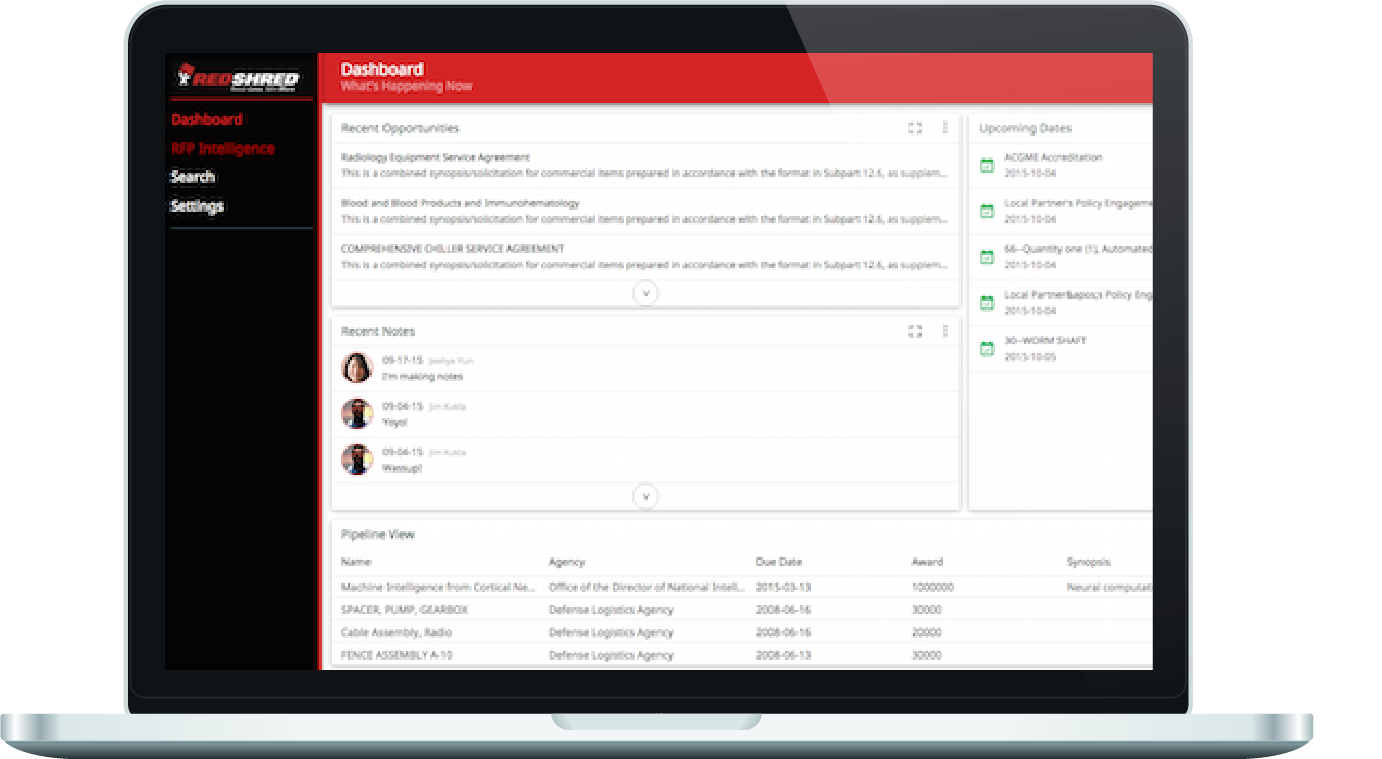
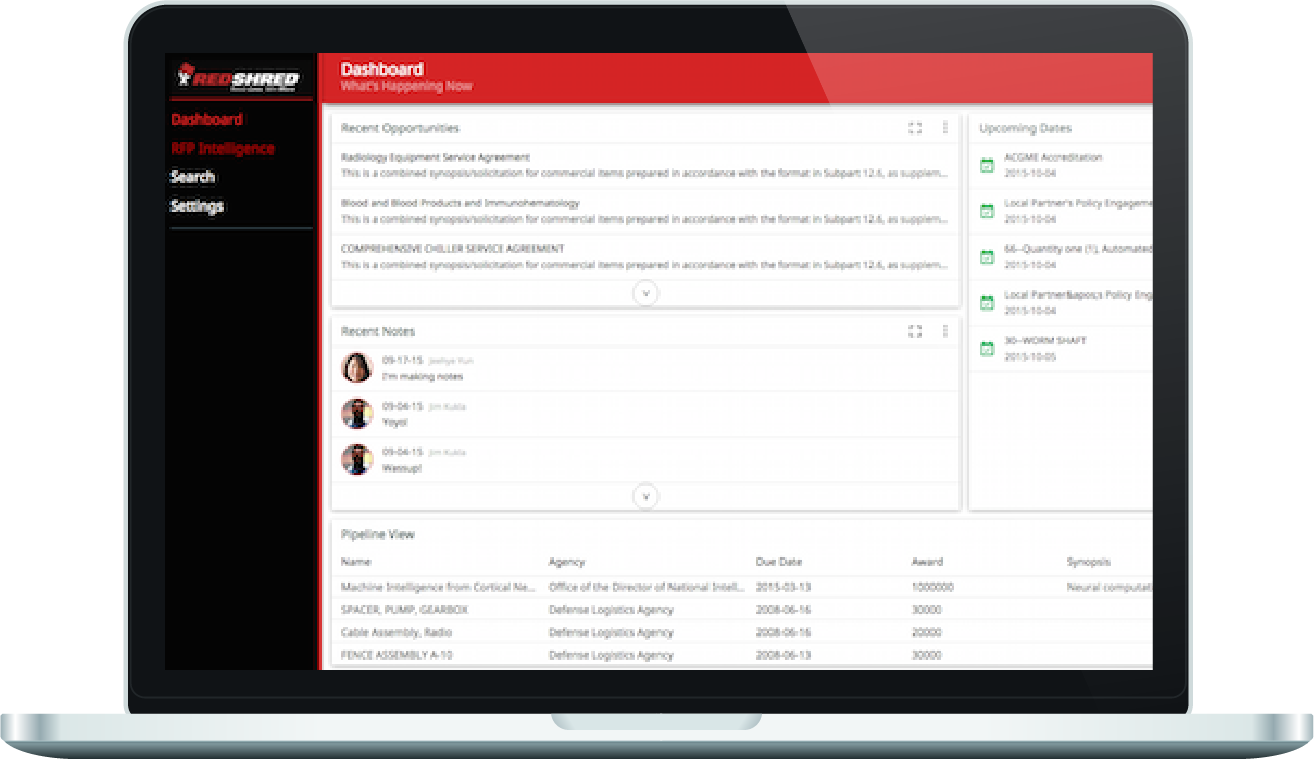
created web development page, added an image size class for figures, trimmed one of the redshred screenshots

diff --git a/software-development/web-applications.html b/software-development/web-applications.html
@@ -1,0 +1,114 @@
+---
+title: Custom Web Application Development
+description: We design and build responsive web applications with great user experiences, elegant infrastructure, and scalable codebases.
+breadcrumb: Web Applications
+---
+<main class="main main-home" role="main">
+  <section class="section hero hero__main">
+    <div class="container">
+      <div class="hero__left">
+        <div class="hero__left-text">
+          <div class="head-text">
+            <h1>Web Application Development</h1>
+          </div>
+        </div>
+        <div class="hero__left-desc">
+          <h2>We’ve been building responsive web applications since 2005; we develop back ends in Ruby on Rails and Elixir/Phoenix, and build front ends with the Javascript framework React. All of our apps are designed with great usability, reliable infrastructure, and scalable codebases.</h2>
+        </div>
+      </div>
+      <div class="hero__right">
+      </div>
+    </div>
+  </section>
+<div class="content-page-wrapper">
+  <section class="section content-block">
+    <div class="container">
+      <p>As a custom web and mobile development shop, we have over a decade and a half’s worth of experience building responsive web applications. A responsive web app is designed to scale and respond sensibly to a variety of screen sizes, and performs equally well in web browsers and on phones and tablets.</p>
+      <p>SmartLogic’s specialty is applications that manage business logic; we’ve provided custom web app development services to a wide range of clients over the years, from funded startups to Fortune 100 corporations, in Baltimore and beyond. Many of our clients have continued to work with us for a number of years, citing our excellent project management, communication, and high quality code.
+      </p>
+
+      <p>Here are a few examples of software application development projects we’ve built for clients.</p>
+    </div>
+  </section>
+
+  <section class="section content-block">
+    <div class="container">
+
+      <!-- folio -->
+
+      <h2>Web Based Application for Internal Professional Development</h2>
+
+      <p>SmartLogic first started working with <a href="case-studies/foliocollaborative">FolioCollaborative</a> in 2011, building out the first production version of their application in three months. Launched in 2011 with a user base of three schools, today Folio is in use across the world at 165 schools.
+      Folio is a professional growth platform used by teachers and staff in schools, with features that include goal setting, goal tracking, feedback and classroom observation, and collaboration within both top-down and peer-scoped groups.</p>
+      <figure>
+        <img class="medium" src="{{ site.baseurl }}/images/case-studies/foliocollaborative/workspaces/folio-workspaces-members.png" alt="FolioCollaborative Members View">
+        <img class="medium" src="{{ site.baseurl }}/images/case-studies/foliocollaborative/workspaces/folio-workspaces-new.png" alt="FolioCollaborative New Workspace View">
+        <img class="medium" src="{{ site.baseurl }}/images/case-studies/foliocollaborative/workspaces/folio-workspaces-timeline.png" alt="FolioCollaborative Timeline View">
+        <figcaption>New views created in the <a href="/case-studies/folio-workspaces">2019 Folio Workspaces</a> update.</figcaption>
+      </figure>
+      <p>Built from scratch in Ruby on Rails, the responsive web application has grown over the years, with annual efforts to improve the application alongside ongoing support and maintenance efforts.</p>
+      <blockquote>Developers can build whatever you ask them to build, within reason — they’re capable of building anything. The team at SmartLogic is willing to build what we need but is also just as committed as we are to the mission and vision of the organization. Dan will raise important questions and help us focus on what features contribute to the mission and how to best use our resources.</blockquote>
+      <cite>— Meredith Ford, Executive Director, FolioCollaborative</cite>
+    </div>
+  </section>
+
+  <section class="section content-block">
+    <div class="container">
+      <!-- brookes -->
+      <h2>Secure Responsive Web Application for Developmental Progress Surveys</h2>
+      <p>SmartLogic took over development of Brookes Publishing’s <a href="/case-studies/brookes-publishing">Ages and Stages Questionnaires Online</a> in 2011, first prioritizing getting the application migrated to a more stable deployment architecture in a secure private cloud to ensure HIPAA compliance for the medical records stored in the database.</p>
+
+      <figure>
+        <img class="medium" src="{{ site.baseurl }}/images/case-studies/brookes/brookes-01.png" alt="ASQ Online Screenshot">
+        <img class="medium" src="{{ site.baseurl }}/images/case-studies/brookes/brookes-02.png" alt="ASQ Online Screenshot">
+        <img class="medium" src="{{ site.baseurl }}/images/case-studies/brookes/brookes-03.png" alt="ASQ Online Screenshot">
+        <figcaption>Screenshots from ASQ Online.</figcaption>
+      </figure>
+
+      <p>Brookes does not have a technical team on staff, so they rely on the SmartLogic team to communicate about complex technical topics in ways that the Brookes team can understand and reason about.</p>
+
+      <blockquote>They were easily able to translate our needs into development language, and they relayed technical information in a way that we could understand it and present it to our executives.</blockquote>
+      <cite>— Tara Gebhardt, Project Administrator, Brookes Publishing</cite>
+
+      <p>Brookes has continued to work with SmartLogic to bring additional features to ASQ Online, including responsive web design features and translation into 11 languages, among them Arabic and Vietnamese. The application has been used to gather over 3.5 million questionnaire responses since its first release in 2010.</p>
+
+      <p>One of our more recent projects with Brookes focused on accessibility. We conducted a formal accessibility assessment which their sales team are able to use in conversations with large clients who require accessibility documentation; the assessment is also being used to identify opportunities to improve accessibility in the application.</p>
+    </div>
+  </section>
+
+  <section class="section content-block">
+    <div class="container">
+
+      <!-- redshred -->
+      <h2>User Interface Design and Implementation for AI-Powered Document Processing Application</h2>
+
+      <p>RedShred, a local Baltimore startup, reached out to SmartLogic in 2018 for help building out the front end for their new AI-based document processing application. RedShred’s users are government contractors who routinely need to sort through lengthy RFP and Grant documents; the RedShred application uses machine learning and natural language processing to parse the often-laborious documents, and identify and summarize relevant opportunities for contractors.</p>
+      <figure>
+        <img class="medium" src="{{ site.baseurl }}/images/case-studies/redshred/redshred1.png" alt="RedShred Screenshot">
+        <img class="medium" src="{{ site.baseurl }}/images/case-studies/redshred/redshred2.png" alt="RedShred Screenshot">
+        <figcaption>Screenshots from RedShred.</figcaption>
+      </figure>
+      <p>While RedShred’s CTO was building out the back end, they partnered with SmartLogic for the user interface design and implementation, to accelerate their time-to-launch and reducing the burden on their internal team.</p>
+      <blockquote>SmartLogic took time to understand our business goals and needs so they could turnaround our project nearly two months ahead of schedule.</blockquote>
+      <cite>— Jim Kukla, CTO, RedShred</cite>
+
+
+    </div>
+  </section>
+  <section class="section content-block">
+    <div class="container">
+      <h2>We’re not just a custom web development agency, we’re your partner in building the right application for your business.</h2>
+      <p>We’re a custom dev shop; every application we build is tailor-made to meet the needs of each client. We spend the time to get to know your business, your users, your stakeholders, your brand, and we make sure that technical decisions always support your business’s goals and needs.</p>
+      <p>Have a project we might be able to help you with? <a href="/contact">Reach out</a>, we’re always happy to talk, and if we aren’t the right team for your project, we will be more than happy to refer you to someone who is.</p>
+
+      <a class="btn-fill" href="/contact">Get in Touch</a>
+
+    </div>
+  </section>
+
+</div>
+</main>
+
+<footer class="footer ">
+  {% include footer-common.html %}
+</footer>

diff --git a/software-development/index.html b/software-development/index.html
@@ -107,12 +107,13 @@ breadcrumb: Services
           <div class="casestudies__article-text">
             <div class="casestudies__article-text-head">
               <div class="head-text">
-                <h2>Web Application Development</h2>
+                <h2><a href="/software-development/web-applications">Web Application Development</a></h2>
               </div>
             </div>
             <div class="casestudies__article-text-desc">
               <p>At SmartLogic, we build web applications that manage business logic, streamline workflows, and provide a great user experience. All the applications we build are either responsive web applications, mobile applications, or a combination of both. In some cases, responsive web apps can also be leveraged to extend the functionality of mobile applications. We’ve also implemented translation into a wide variety of languages including Chinese, Vietnamese, and Arabic.</p><br/>
-              <p>We've been working with some of our web app clients for over 8 years; read more about our work building responsive web apps for <a href="/case-studies/foliocollaborative">FolioCollaborative</a>, <a href="/case-studies/brookes-publishing">Brookes Publishing</a> and <a href="/case-studies/redshred">RedShred</a>.</p>
+              <p>We've been working with some of our web app clients for over 8 years; a few examples of responsive web apps we've built for clients include <a href="/case-studies/foliocollaborative">FolioCollaborative</a>, <a href="/case-studies/brookes-publishing">Brookes Publishing</a> and <a href="/case-studies/redshred">RedShred</a>.</p> <br/>
+              <p><a href="/software-development/web-applications"> > Read more about our custom Web App development</a></p>
             </div>
           </div>
         </article>

diff --git a/_sass/pages/content-page.scss b/_sass/pages/content-page.scss
@@ -60,6 +60,10 @@
       max-width:200px;
       height:auto;
     }
+    img.medium{
+      max-width:300px;
+      height:auto;
+    }
   }
 // getting sidetracked on image scaling at diff view sizes
   // .tablet-image{
